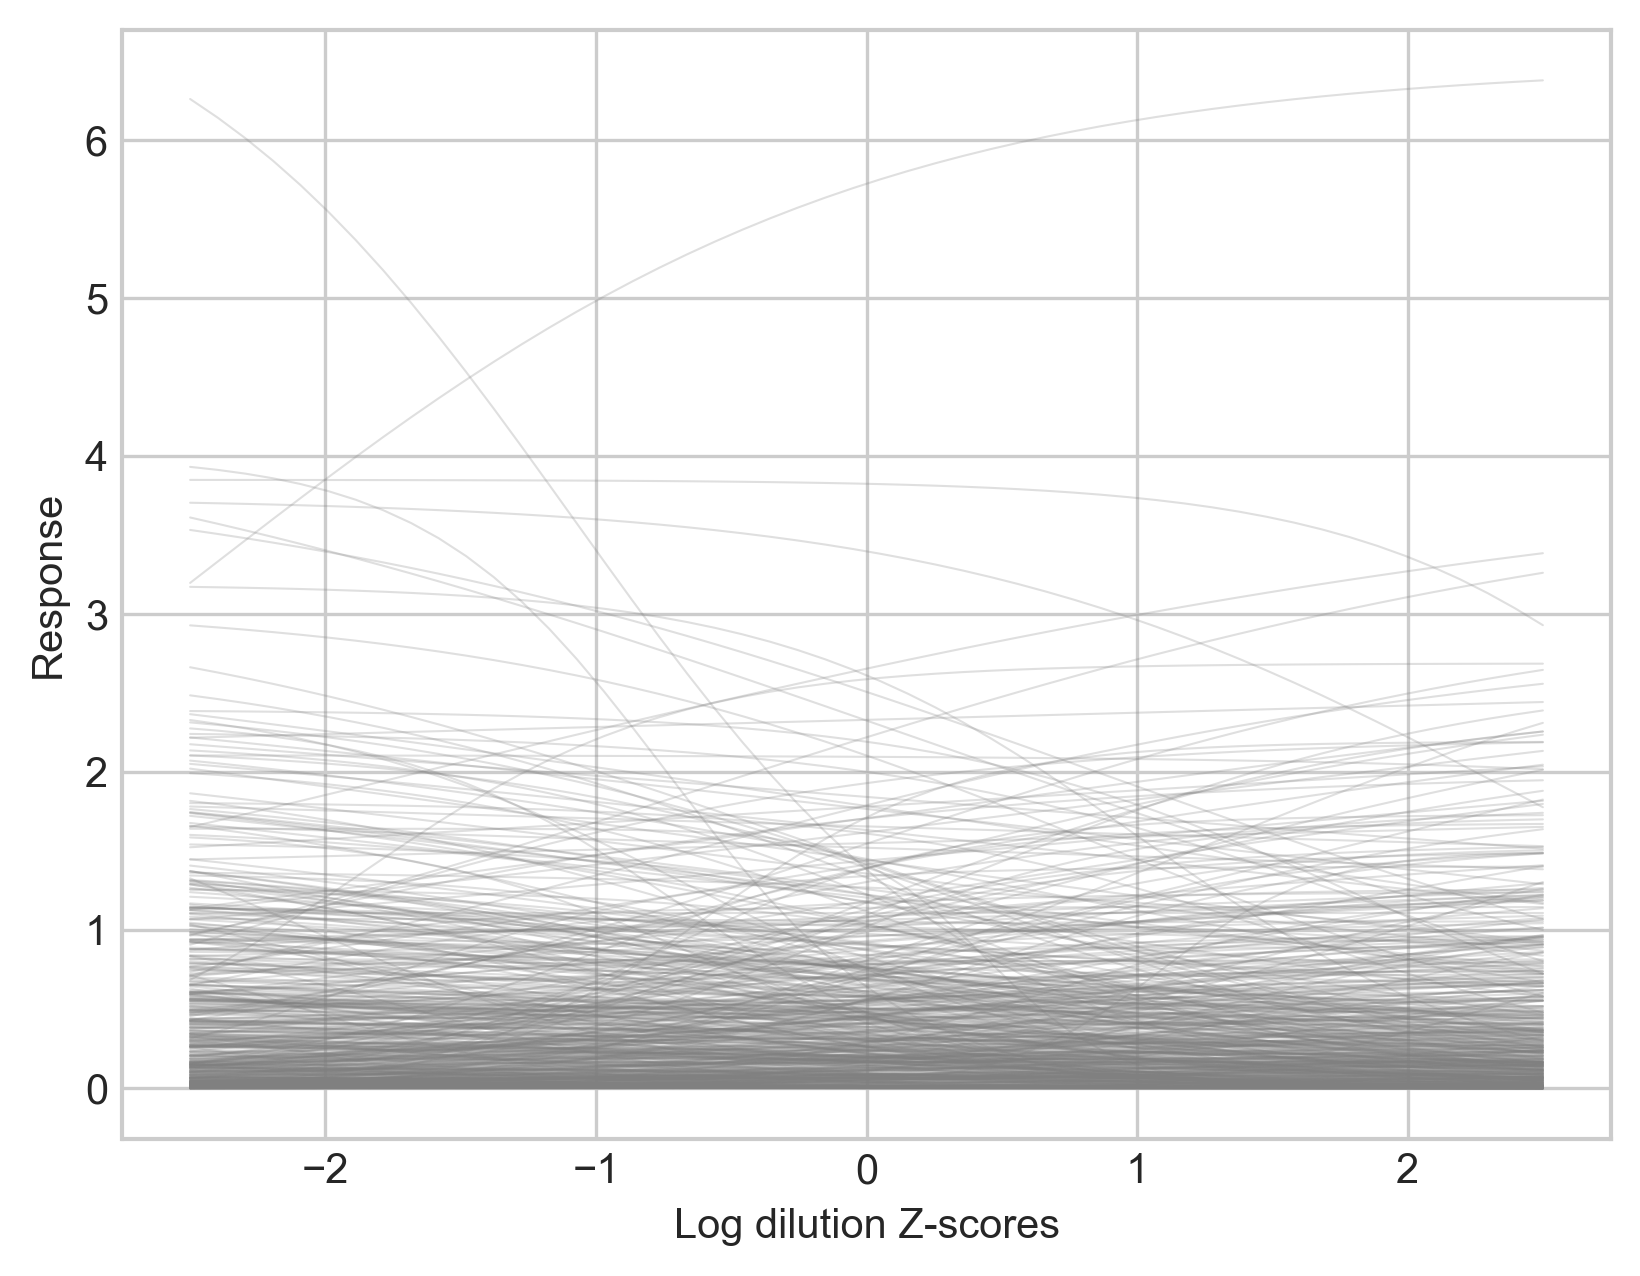
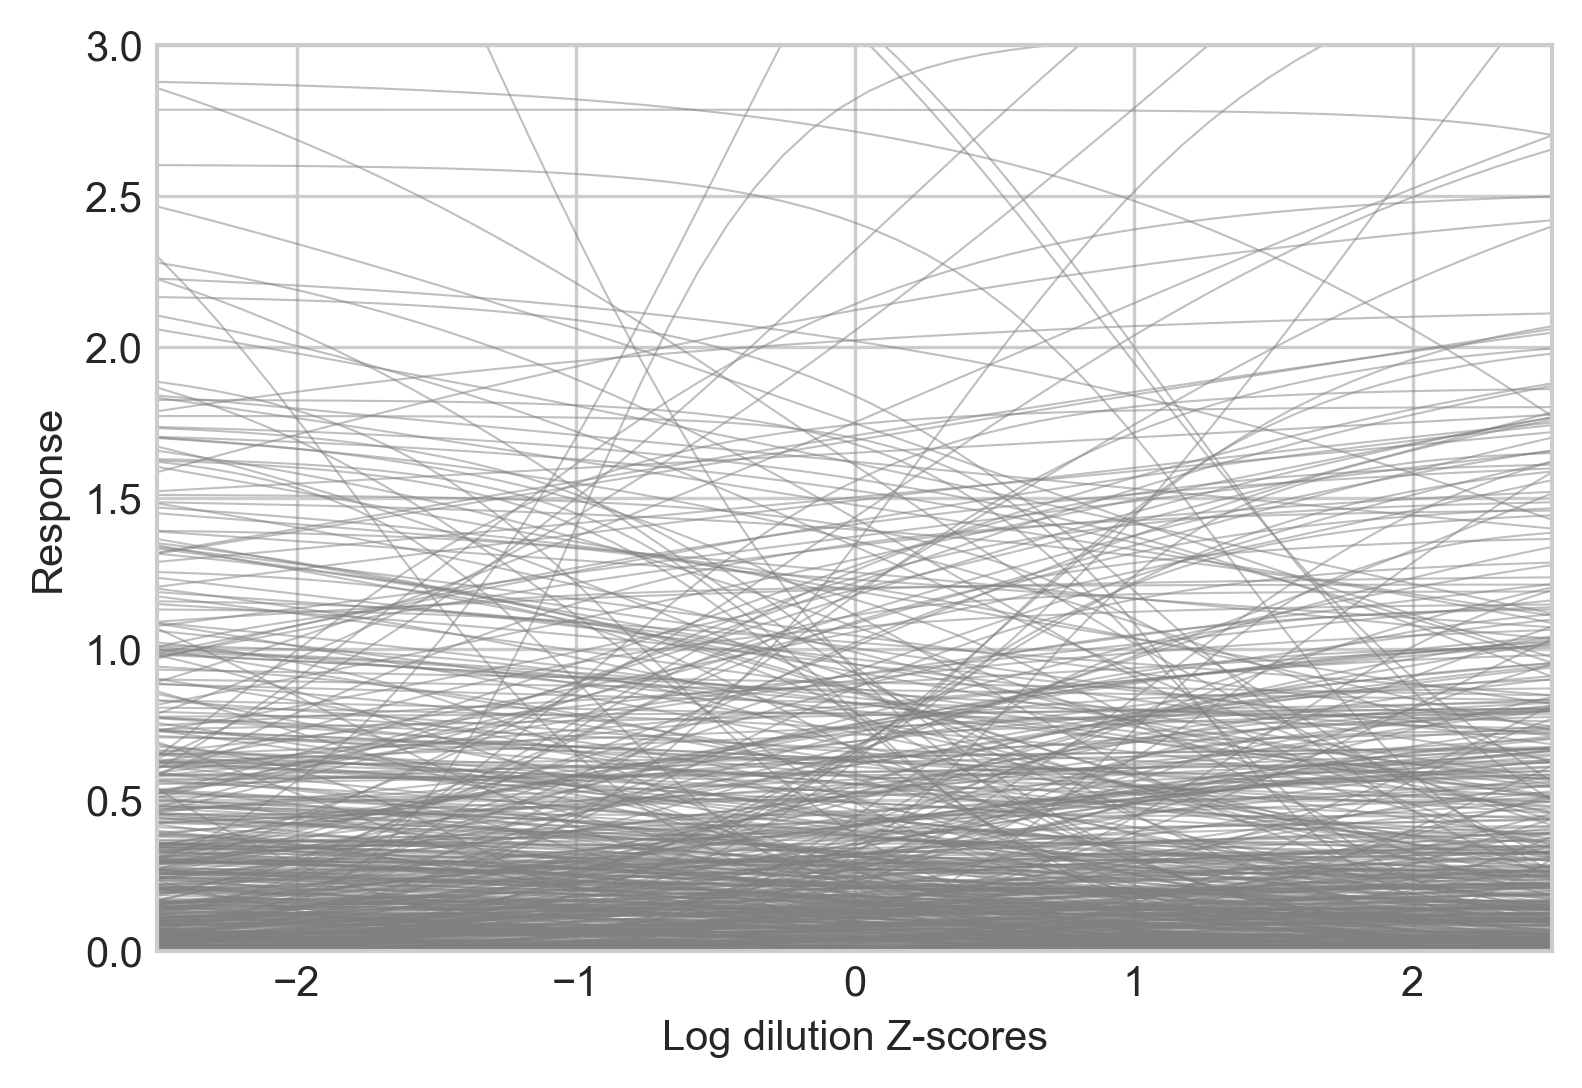
Zooming in on prior predictive figure a bit more.

diff --git a/docs/prior-predictive.py b/docs/prior-predictive.py
@@ -23,8 +23,9 @@ y = it.inverse_logit(
     d=sigmoid.prior_predictive["d"],
 )
 
-plt.plot(x, y, c="grey", alpha=0.25, lw=0.5)
+plt.plot(x, y, c="grey", alpha=0.5, lw=0.5)
 plt.xlabel("Log dilution Z-scores")
 plt.ylabel("Response")
-
+plt.ylim(0, 3)
+plt.xlim(-2.5, 2.5)
 plt.savefig("prior-predictive.png", bbox_inches="tight", dpi=300)
